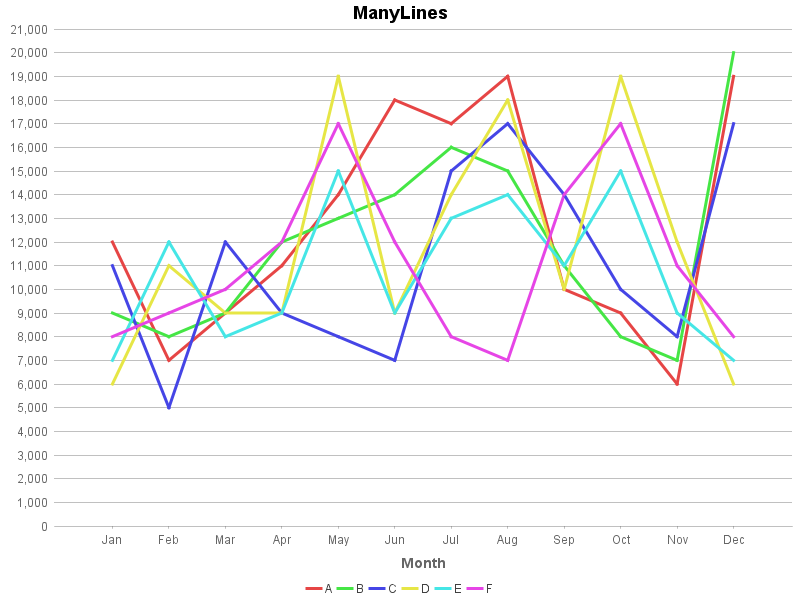
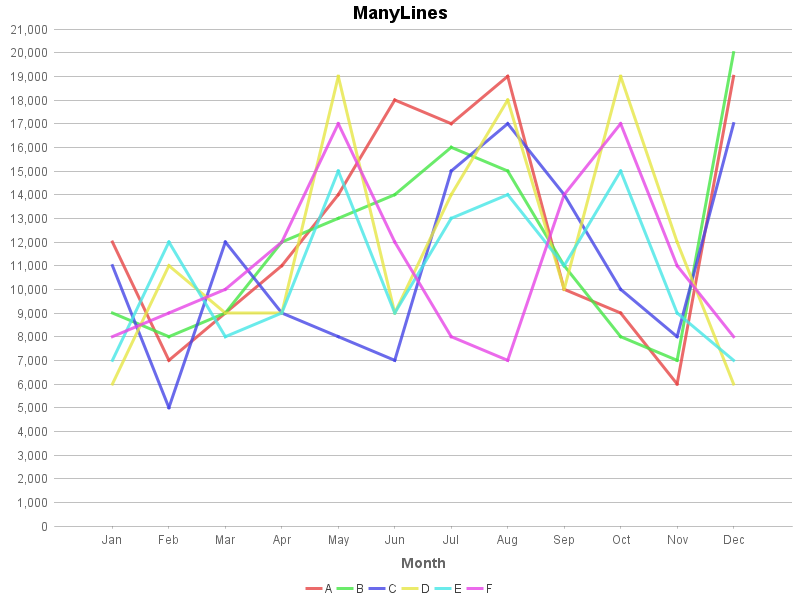
add data color alpha support

diff --git a/ch.obermuhlner.csv2chart/src/main/java/ch/obermuhlner/csv2chart/Application.java b/ch.obermuhlner.csv2chart/src/main/java/ch/obermuhlner/csv2chart/Application.java
@@ -345,6 +345,8 @@ public class Application {
 		Paint[] paints = new Paint[n];
 		boolean[] wheelPaints = new boolean[n];
 
+		int alpha = (int) (parameters.dataColorAlpha * 255.0f + 0.5f) << 24;
+
 		int paintIndex = 0;
 		int wheelStep = 3;
 		while (paintIndex < n) {
@@ -352,7 +354,9 @@ public class Application {
 			for (int angle = 0; angle < n; angle+=step) {
 				if (!wheelPaints[angle]) {
 					float hue = ((float) angle) / n;
-					Paint paint = Color.getHSBColor(hue, (float) parameters.dataColorSaturation, (float) parameters.dataColorBrightness);
+					int rgb = 0xffffff & Color.HSBtoRGB(hue, (float) parameters.dataColorSaturation, (float) parameters.dataColorBrightness);
+					int argb = alpha | rgb;
+					Paint paint = new Color(argb, true);
 					wheelPaints[angle] = true;
 					paints[paintIndex++] = paint;
 				}

diff --git a/ch.obermuhlner.csv2chart/src/main/java/ch/obermuhlner/csv2chart/Parameters.java b/ch.obermuhlner.csv2chart/src/main/java/ch/obermuhlner/csv2chart/Parameters.java
@@ -146,6 +146,14 @@ public class Parameters implements Cloneable {
 	public double dataColorBrightness = 0.9;
 
 	@Parameter(
+			name = "data-color-alpha",
+			description = ""
+					+ "Alpha value of data colors.\n"
+					+ "Supported values: 0.0 - 1.0\n"
+					+ "Default: 0.8")
+	public double dataColorAlpha = 0.8;
+
+	@Parameter(
 			name = "scale-min-value",
 			description = ""
 					+ "Minimum value of the color scale.")
